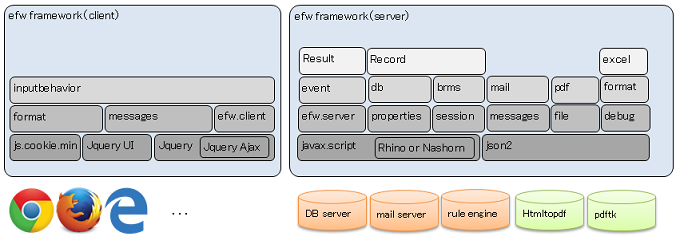
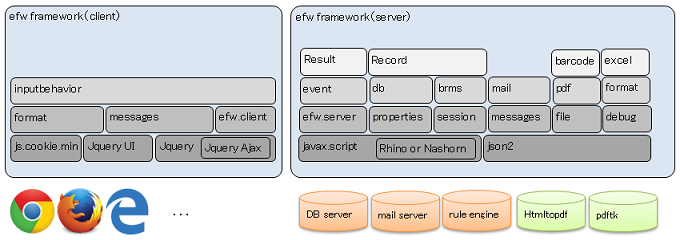
3.6 about barcode

diff --git a/help/api_draw_barcode.md b/help/api_draw_barcode.md
@@ -5,7 +5,7 @@ It is almost based on <a href="http://barcode4j.sourceforge.net/">barcode4j</a> 
 which is powered by <a href="https://github.com/zxing/zxing">ZXing</a>.
 <h2>Sample for JSP</h2>
 <pre>
-	&lt;img src="drawServlet?type=qrcodemsg=hellword">
+	&lt;img src="drawServlet?type=qrcode&msg=hellword">
 </pre>
 
 <h2>API</h2>
